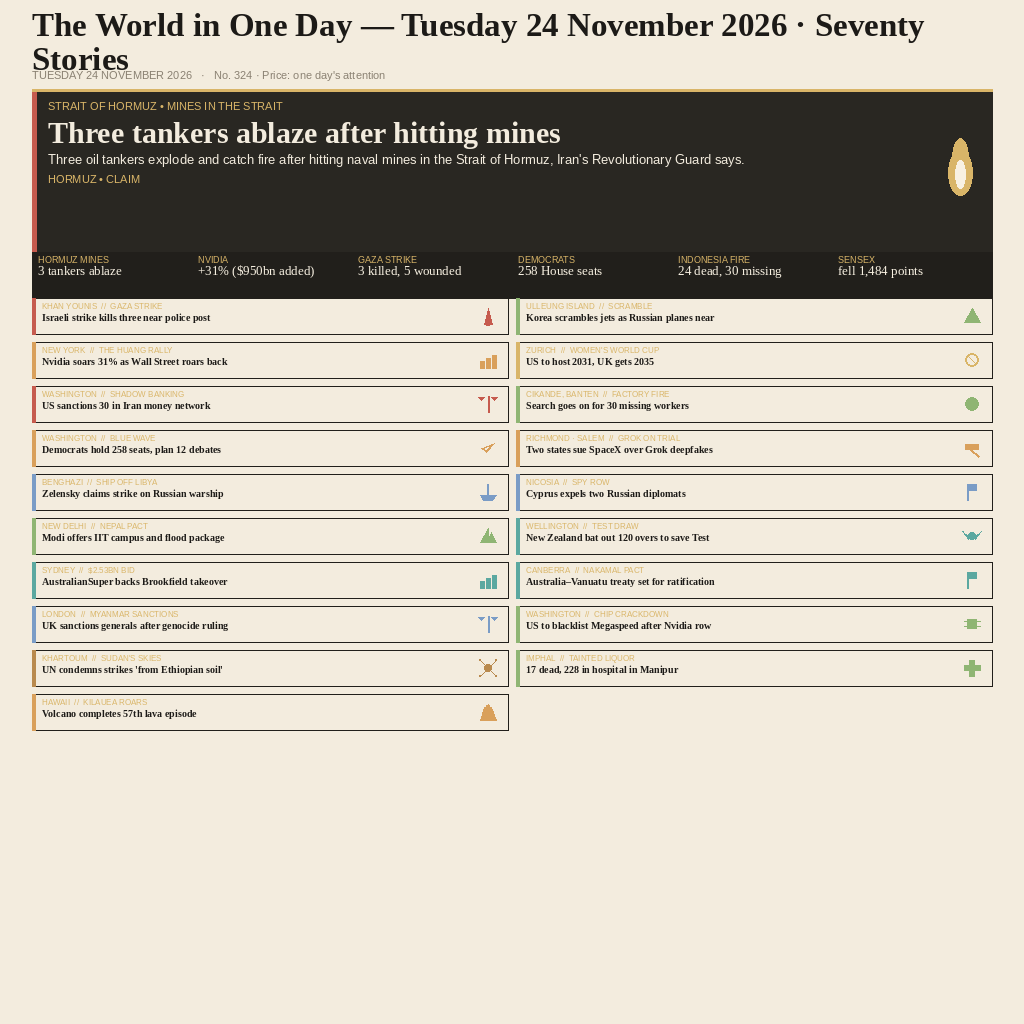
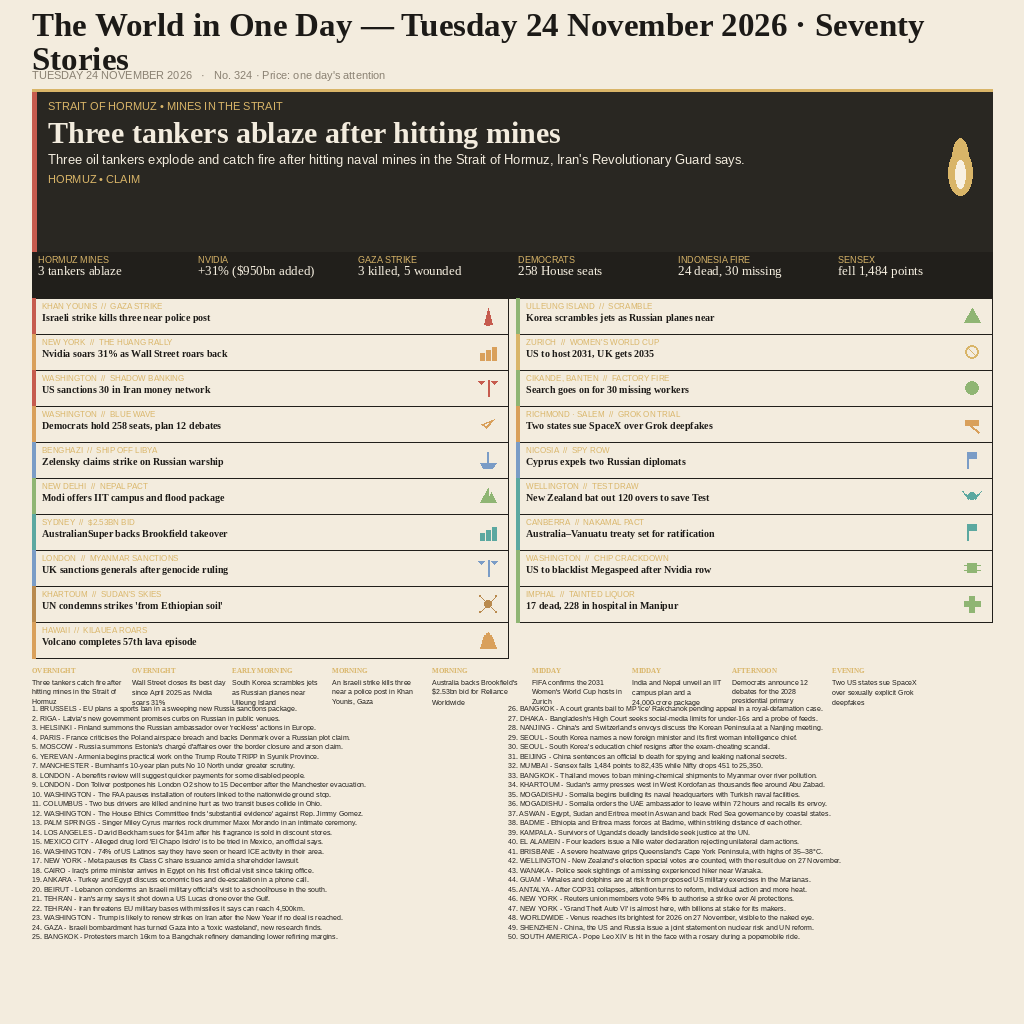
render: timeline band + briefs zone; fix cards pitch to 36

Changed region(s): [[0.0312, 0.3125, 0.8125, 0.9375], [0.9375, 0.3438, 0.9688, 0.6562], [0.8125, 0.625, 0.9062, 0.6875]]

diff --git a/render.py b/render.py
@@ -277,7 +277,30 @@ def draw_cards_zone(page):
     for idx, card in enumerate(stories.CARDS[1:]):
         row = idx // 2
         col = idx % 2
-        draw_card(page, card, 32 + col * (476 + 8), 298 + row * (36 + 8), 476, 36)
+        draw_card(page, card, 32 + col * (476 + 8), 298 + row * 36, 476, 36)
+
+def draw_timeline_band(page):
+    band_y0, band_y1 = 664, 700
+    col_width = 100
+    for i, beat in enumerate(stories.TIMELINE):
+        x = 32 + i * col_width
+        part_font = load_font('serif_bold', 7)
+        text_font = load_font('sans', 7)
+        page.text((x, 666), beat['part'].upper(), part_font, GOLD, max_width=94)
+        page.text((x, 678), beat['text'], text_font, INK, max_width=94)
+
+def draw_briefs_zone(page):
+    zone_y0, zone_y1 = 704, 942
+    cell_width = 476
+    pitch = 9.52
+    for i, brief in enumerate(stories.BRIEFS):
+        row = i % 25
+        col = 0 if i < 25 else 1
+        x = 32 + col * cell_width
+        y = zone_y0 + row * pitch
+        text_str = f"{brief['n']}. {brief['place'].upper()} - {brief['text']}"
+        font = load_font('sans', 7)
+        page.text((x, y), text_str, font, INK, max_width=cell_width-16)
 
 def main():
     page = Page()
@@ -285,6 +308,8 @@ def main():
     draw_lead_card(page)
     draw_stats_strip(page)
     draw_cards_zone(page)
+    draw_timeline_band(page)
+    draw_briefs_zone(page)
     self_check(page)
     page.img.save('/home/hatch/workspace/makefun/entries/news-image-20261124-r1/entry.png')
     print("entry.png saved successfully.")
